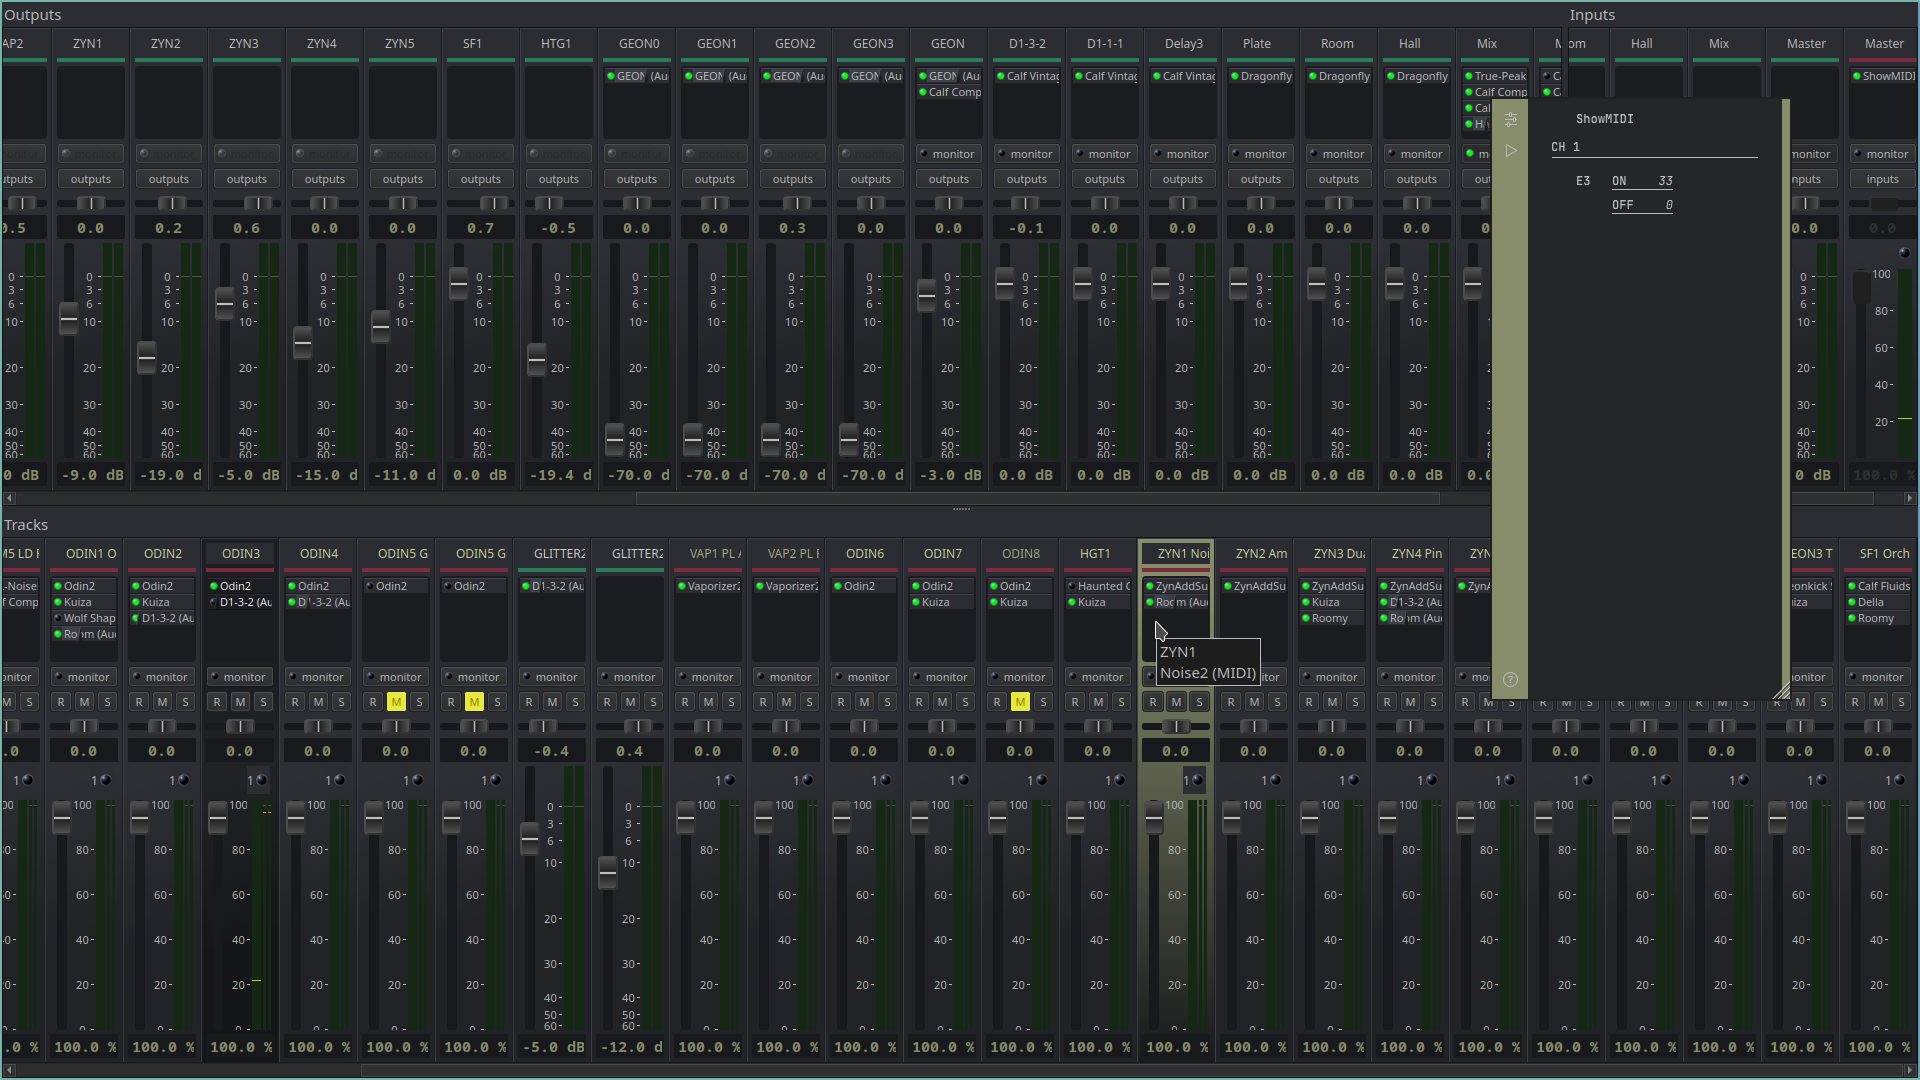
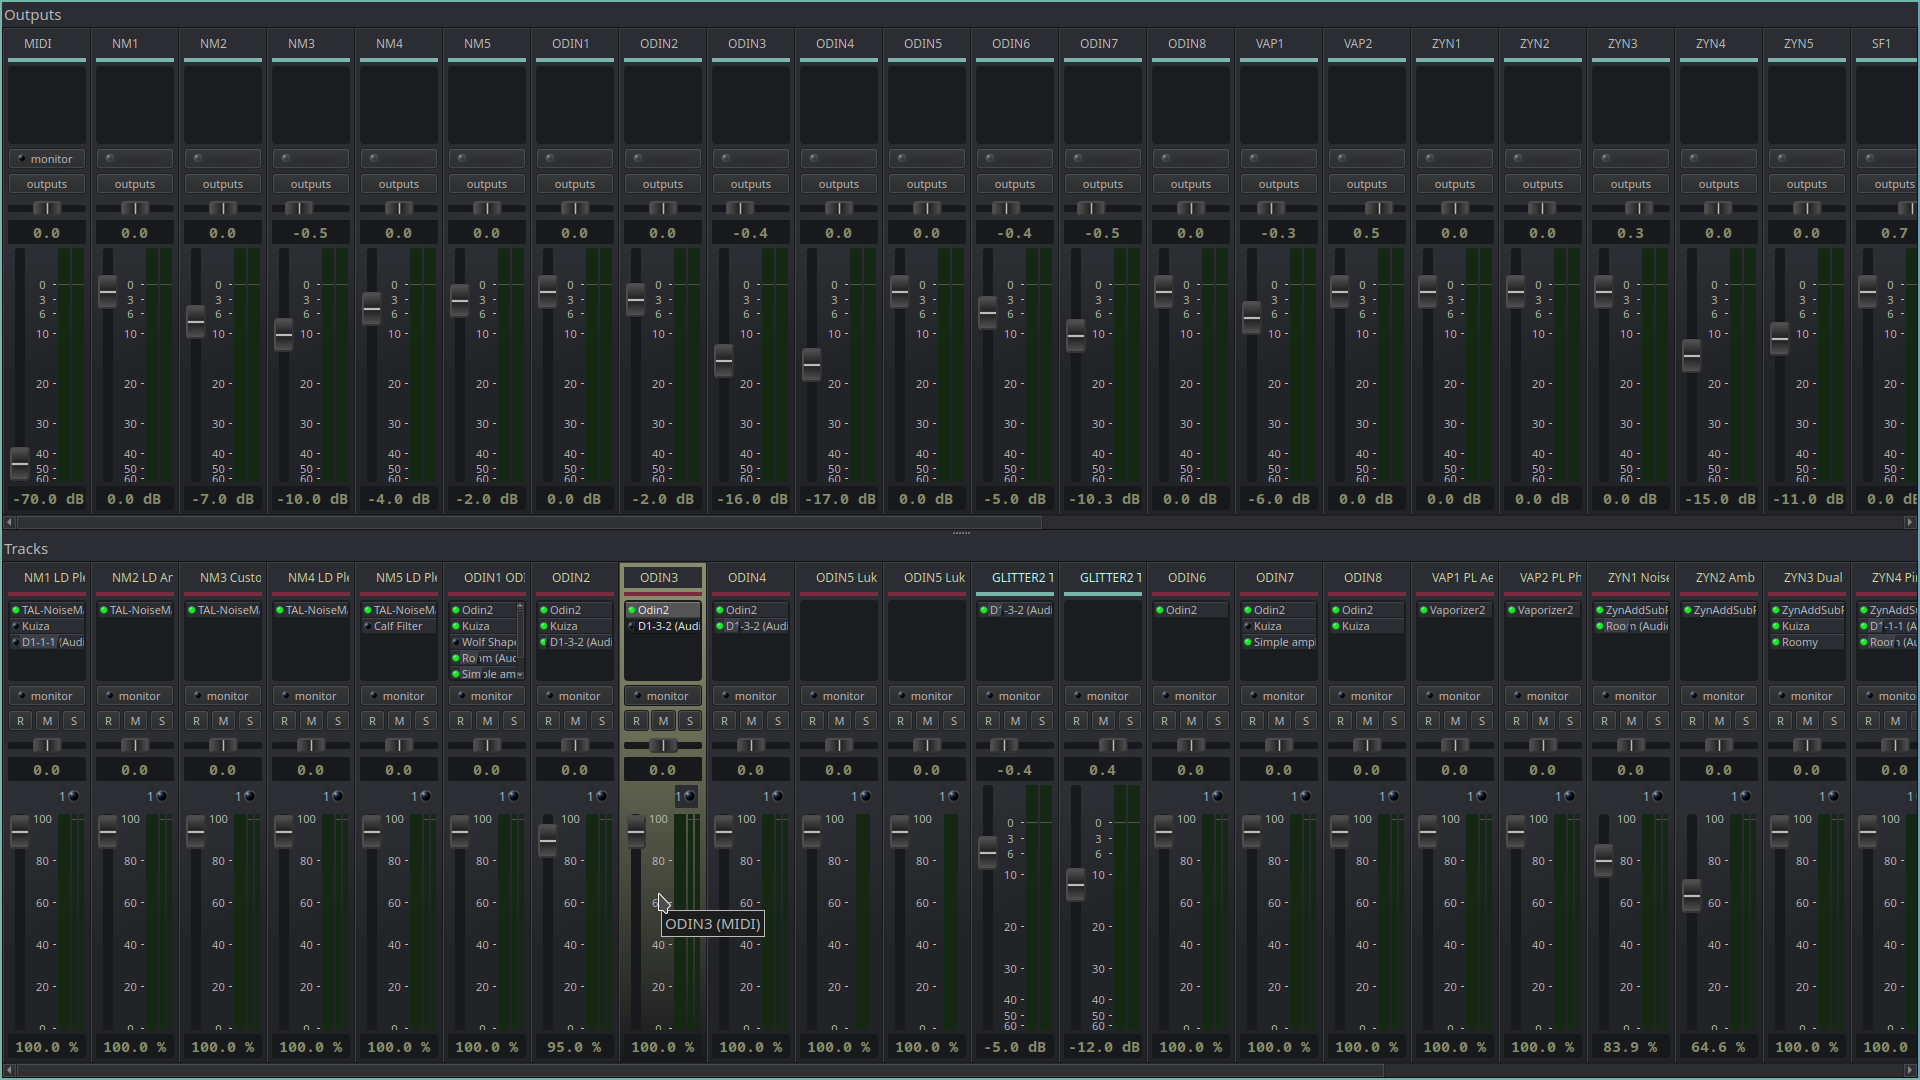
latest

diff --git a/README.md b/README.md
@@ -46,7 +46,7 @@ Import the _Grayscale.conf_ file obtained from this repo in order to change the 
 
 Next, import the _Grayscale.qss_ file obtained from this repo in order to change the style sheet.
 
-The suggested colors to set in _View > Options > Display > Meters_ are _#2a7c5b_ for Audio and _#7c2a40_ for MIDI.
+The suggested colors to set in _View > Options > Display > Meters_ are _#75b5aa_ for Audio and _#7c2a40_ for MIDI.
 
 The suggested colors to use when creating tracks are _#252628_ for foreground and _#878C6A_ for background.
 
@@ -54,7 +54,7 @@ The suggested color to use for automation is _#bdbdbd_.
 
 # Toolbar Configuration
 
-In order to reduce clutter, it is highly recommended to disable most toolbars. In the main window, navigate to _View > Toolbars_ and disable the following:
+In order to reduce clutter, it is highly recommended to disable all status bars and most toolbars. In the main window, navigate to _View > Toolbars_ and disable the following:
 
 - File
 - Edit
@@ -68,6 +68,8 @@ In the MIDI clip editor (piano roll), navigate to _View > Toolbars_ and disable 
 - Transport
 - Time
 - Scale
+
+Uncheck _View > Statusbar_ in both windows.
 
 # Key Bindings
 
@@ -109,32 +111,32 @@ Here are the suggested bindings for the main window
 
 Here are the suggested bindings for the MIDI Clip Editor (Piano Roll) window
 
-| Menu/Action             | Binding | Mnemonic or additional notes                  |
-| :---------------------- | :-----: | :-------------------------------------------- |
-| editCopyAction          |    C    | Copy                                          |
-| editDeleteAction        |    D    | Delete                                        |
-| editModeDrawAction      | Shift+W | Seldom used. Think of it as a "Special write" |
-| editModeOffAction       |    S    | Select                                        |
-| editModeOnAction        |    W    | Write                                         |
-| editPasteAction         |    V    | Paste                                         |
-| editRedoAction          | Shift-Z | Opposite of Z                                 |
-| editSelectAllAction     |    A    | All                                           |
-| editSelectInvertAction  | Shift-S | Think of it as "opposite of what is selected" |
-| editSelectNoneAction    | Shift+A | Opposite of A                                 |
-| editUndoAction          |    Z    | Undo                                          |
-| fileCloseAction         |    X    | Heavily used                                  |
-| toolsQuantizeAction     |    Q    | Quantize                                      |
-| toolsTransposeAction    |    T    | Transpose                                     |
-| transportBackwardAction |    B    | Back                                          |
-| transportForwardAction  |    F    | Forward                                       |
-| transportPlayAction     |  Space  |                                               |
-| viewEventsAction        |    E    | Event Viewer                                  |
-| viewMenubarAction       | Ctrl+M  | Keep this around just in case                 |
-| viewSnapPerBeat1        |    1    | Quarter Note                                  |
-| viewSnapPerBeat2        |    2    | 8th note                                      |
-| viewSnapPerBeat3        |    3    | 8th note triplet                              |
-| viewSnapPerBeat4        |    4    | 16th note                                     |
-| viewZoomResetAction     | Shift+R | Reset zoom                                    |
+| Menu/Action             | Binding | Mnemonic or additional notes                      |
+| :---------------------- | :-----: | :------------------------------------------------ |
+| editCopyAction          |    C    | Copy                                              |
+| editDeleteAction        |    D    | Delete                                            |
+| editModeDrawAction      | Shift+W | Seldom used. Think of it as a "Special write"     |
+| editModeOffAction       |    S    | Select                                            |
+| editModeOnAction        |    W    | Write                                             |
+| editPasteAction         |    V    | Paste                                             |
+| editRedoAction          | Shift-Z | Opposite of Z                                     |
+| editSelectAllAction     |    A    | All                                               |
+| editSelectInvertAction  | Shift-S | Think of it as "opposite of selected"             |
+| editSelectNoneAction    | Shift+A | Opposite of A                                     |
+| editUndoAction          |    Z    | Undo                                              |
+| fileCloseAction         |    X    | Heavily used                                      |
+| toolsQuantizeAction     |    Q    | Quantize                                          |
+| toolsTransposeAction    |    T    | Transpose                                         |
+| transportBackwardAction |    B    | Back                                              |
+| transportForwardAction  |    F    | Forward                                           |
+| transportPlayAction     |  Space  |                                                   |
+| viewEventsAction        |    E    | Event Viewer                                      |
+| viewMenubarAction       | Ctrl+M  | Keep this around to reveal the menu bar if needed |
+| viewSnapPerBeat1        |    1    | Quarter Note                                      |
+| viewSnapPerBeat2        |    2    | 8th note                                          |
+| viewSnapPerBeat3        |    3    | 8th note triplet                                  |
+| viewSnapPerBeat4        |    4    | 16th note                                         |
+| viewZoomResetAction     | Shift+R | Reset zoom                                        |
 
 # The Perfect i3 Configuration
 
